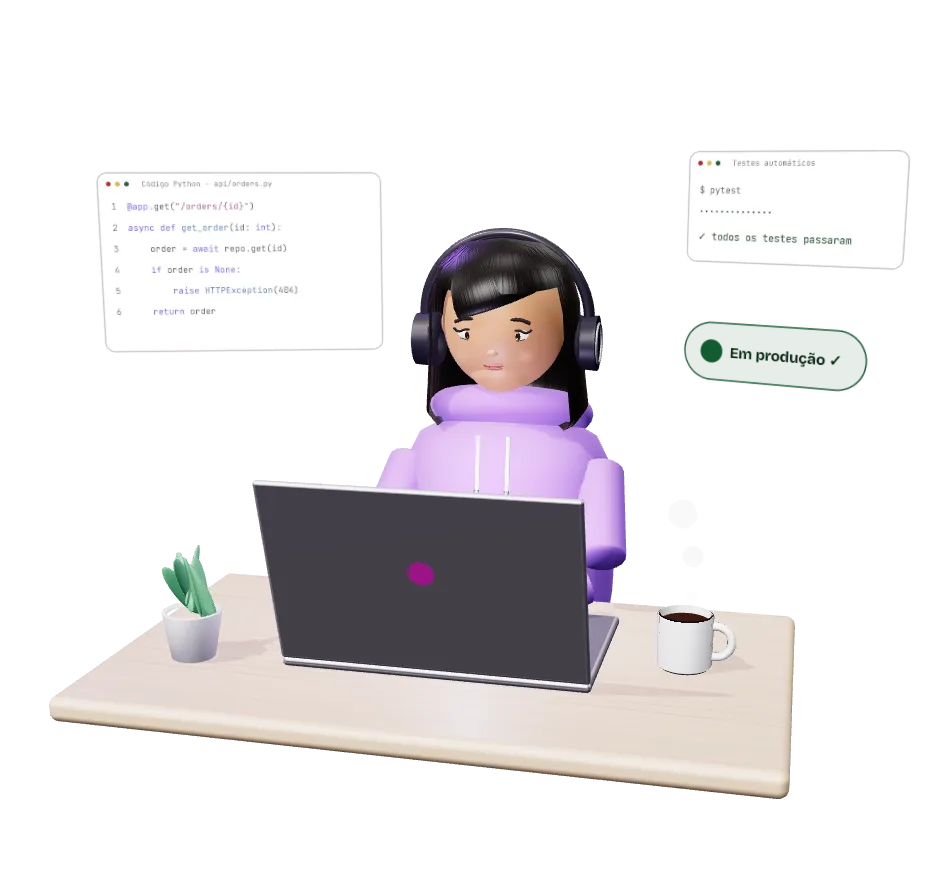
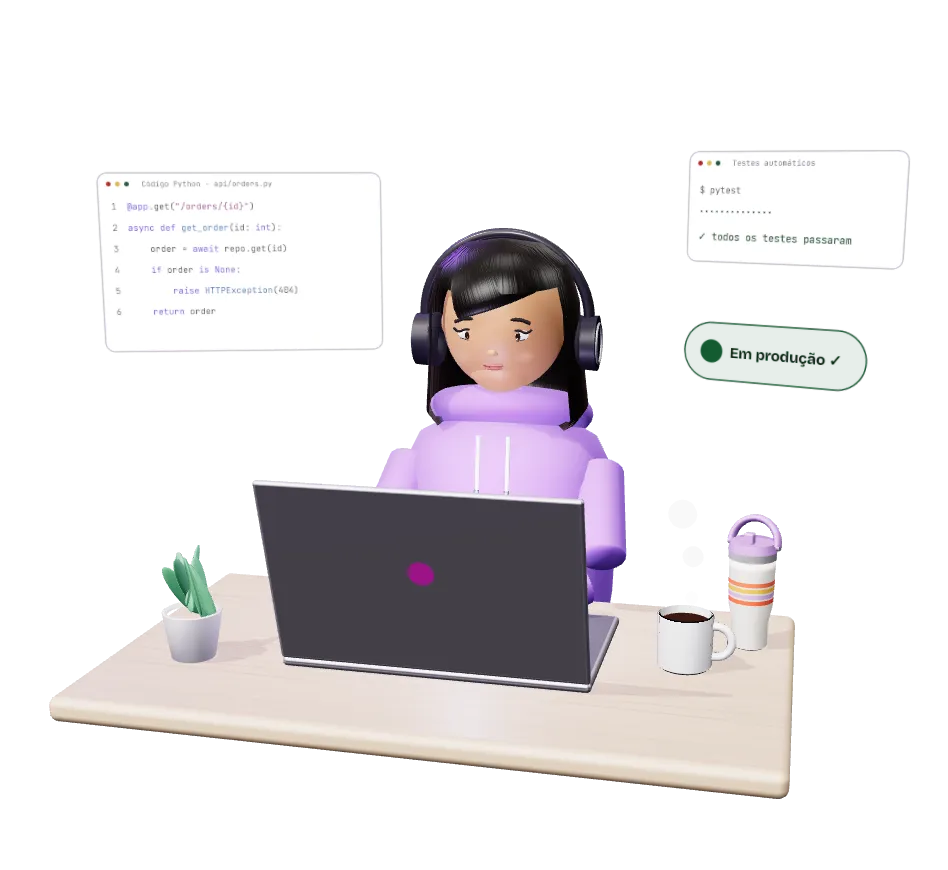
feat: adiciona a garrafa térmica lilás ao lado da caneca na cena 3D

Changed region(s): [[0.7648, 0.5897, 0.8259, 0.7448]]

diff --git a/components/scene/hero-scene.ts b/components/scene/hero-scene.ts
@@ -404,7 +404,7 @@ export async function createHeroScene(
   screenLight.position.set(0, 0.45, -0.32);
   root.add(screenLight);
 
-  /* ── Mesa, notebook, caneca e planta ── */
+  /* ── Mesa, notebook, caneca, garrafa e planta ── */
   mesh(new RoundedBoxGeometry(2.15, 0.08, 1.3, 4, 0.03), mDesk, root, false).position.set(
     0,
     -0.04,
@@ -455,6 +455,65 @@ export async function createHeroScene(
     root.add(m);
     return m;
   });
+  /* Garrafa térmica (copo de 887 ml com alça, pedido da dona em 2026-11-20): corpo creme com quatro listras, aro de
+     metal, tampa e alça lilás. Sem logo de marca. Fica à direita e atrás da caneca, para não escondê-la. */
+  const bottle = new Group();
+  bottle.position.set(0.93, 0, -0.42);
+  bottle.rotation.y = -0.35;
+  root.add(bottle);
+  const mBottle = P({ color: 0xf4efe6, roughness: 0.42, clearcoat: 0.5, clearcoatRoughness: 0.5 });
+  const mLilac = P({ color: 0xb48ad8, roughness: 0.38, clearcoat: 0.45 });
+  // Aço escovado claro: totalmente metálico, ele refletiria o fundo escuro e ficaria preto.
+  const mSteel = P({ color: 0xdedce4, metalness: 0.55, roughness: 0.3, clearcoat: 0.6 });
+  // Perfil: base estreita, que alarga no terço de baixo e segue quase reta até o aro.
+  const bottleProfile = [
+    v2(0, 0),
+    v2(0.05, 0),
+    v2(0.057, 0.006),
+    v2(0.058, 0.085),
+    v2(0.07, 0.14),
+    v2(0.074, 0.27),
+    v2(0.075, 0.3),
+    v2(0, 0.3),
+  ];
+  mesh(new LatheGeometry(bottleProfile, 48), mBottle, bottle);
+  // Raio do corpo na altura y (entre 0,14 e 0,3), para as listras acompanharem o afunilamento.
+  const bodyRadius = (y: number) => 0.07 + ((y - 0.14) / 0.13) * 0.004 + 0.0012;
+  const stripes: [number, number][] = [
+    [0.226, 0xef6a4b],
+    [0.206, 0xf3ad3d],
+    [0.186, 0xc6a3e8],
+    [0.166, 0xec5b3f],
+  ];
+  for (const [y, color] of stripes) {
+    const h = 0.014;
+    const band = mesh(
+      new CylinderGeometry(bodyRadius(y + h / 2), bodyRadius(y - h / 2), h, 48, 1, true),
+      P({ color, roughness: 0.45, clearcoat: 0.4 }),
+      bottle,
+      false
+    );
+    band.position.y = y;
+  }
+  mesh(new CylinderGeometry(0.0765, 0.0765, 0.026, 48), mSteel, bottle).position.y = 0.313;
+  const cap = mesh(new CylinderGeometry(0.074, 0.0785, 0.03, 48), mLilac, bottle);
+  cap.position.y = 0.341;
+  mesh(new RoundedBoxGeometry(0.032, 0.04, 0.03, 3, 0.008), mLilac, bottle).position.set(
+    0,
+    0.37,
+    0.03
+  );
+  // Alça: uma tira em arco presa nas laterais da tampa, inclinada para trás.
+  const strap = mesh(new TorusGeometry(0.079, 0.011, 10, 40, PI), mLilac, bottle);
+  strap.scale.set(1, 1.05, 1.9);
+  strap.position.set(0, 0.345, -0.01);
+  strap.rotation.x = -0.3;
+  for (const side of [-1, 1]) {
+    const hinge = mesh(new CylinderGeometry(0.012, 0.012, 0.014, 20), mSteel, bottle);
+    hinge.rotation.z = PI / 2;
+    hinge.position.set(side * 0.081, 0.345, -0.01);
+  }
+
   const potProfile = [v2(0, 0), v2(0.07, 0), v2(0.095, 0.15), v2(0.088, 0.155), v2(0.08, 0.14)];
   mesh(new LatheGeometry(potProfile, 32), mPot).position.set(-0.8, 0, 0.1);
   for (let f = 0; f < 7; f++) {
